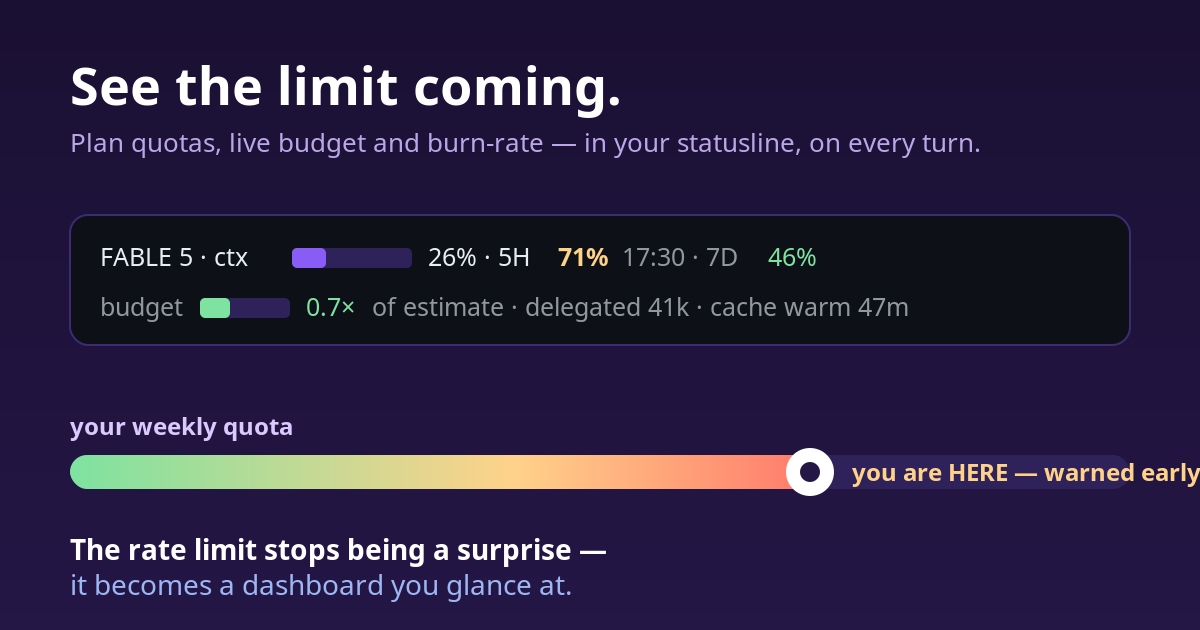
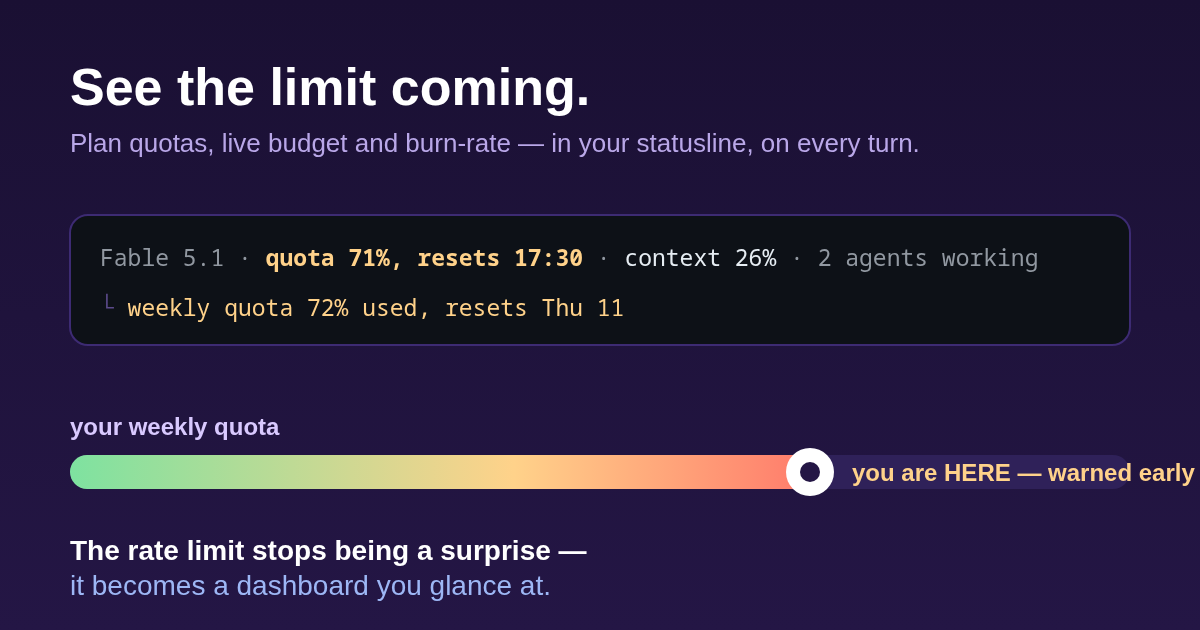
docs: statusline previews show the plain line (default since 1.39)
README, docs/STATUSLINE.md, INSTALL §6 and the plugin README still showed the
dense expert line as the default. Previews now show the plain line and one
exception row; the dense line is labelled expert mode. statusline.svg and the
card4 mock redrawn, PNG regenerated from the SVG.

Claude-Session: https://claude.ai/code/session_01Bj4SoJ2wubPXGZyGoXpb6U

diff --git a/fable-director/README.md b/fable-director/README.md
@@ -15,10 +15,10 @@ execute, the workshop accrues craft.
 | `skills/delega-efficiente/tools/session-cost-report.py` | Token report per model/main/subagents from JSONL transcripts; cache/delegation metrics (alarms, not targets); reads the budget file on its own and prints ≥3× flags |
 | `scripts/fd-telemetry.py` | Machine-readable pre-budget (`budget-open`/`budget-close`, `--type` for the density table), objective event logging to SQLite (`~/.claude/fable-director/telemetry.db`), aggregate `report` (encoded density N≥10, cache-thrash alarm), opt-in idempotent cache (`cache-get`/`cache-put --verified`). Never self-assigned quality scores |
 | `scripts/stop-budget-check.py` (Stop hook) | Deterministic 3× enforcement: at each turn end it compares actual tokens against the open budget (lineage attribution: subagent usage sits inside toolUseResult in the main transcript — no mtime, no double counting); on overrun it blocks closing, auto-logs the `budget_flag` event to telemetry (deterministic, zero tokens: the model only owes the post-mortem) and imposes the post-mortem. Anti-loop: stop_hook_active + flagged status; budget >24h → stale |
-| `scripts/subagent-meter.py` (SubagentStart/SubagentStop hooks) | Counts delegations that actually started — nested spawns included, which the PreToolUse gate never sees (Claude Code ≥ 2.1.219 nests 3 levels by default) — and compares each subagent's real `effort.level` against the tier pinned in its frontmatter, logging `effort_ignored` when the pin was ignored. State per session in `~/.claude/fable-director/subagents/`, read by the statusline (`dlg ⟲N`) and `/fable-director:status`. Lock + atomic rename (a workflow fan-out starts many at once); any internal error exits 0 in silence — a meter must never break the session it measures |
+| `scripts/subagent-meter.py` (SubagentStart/SubagentStop hooks) | Counts delegations that actually started — nested spawns included, which the PreToolUse gate never sees (Claude Code ≥ 2.1.219 nests 3 levels by default) — and compares each subagent's real `effort.level` against the tier pinned in its frontmatter, logging `effort_ignored` when the pin was ignored. State per session in `~/.claude/fable-director/subagents/`, read by the statusline (`N agents working`, `dlg ⟲N` in expert mode) and `/fable-director:status`. Lock + atomic rename (a workflow fan-out starts many at once); any internal error exits 0 in silence — a meter must never break the session it measures |
 | SessionEnd hook (`fd-telemetry.py session-summary`) | Logs at session end token totals, cache_hit_ratio/efficiency/investment, delegation_overhead, coordination_cost — zero model tokens |
 | `playbook-template.md` | Playbook template: copy it to `~/.claude/delega-playbook.md` on first install (outside the plugin: updates don't touch it) |
-| `scripts/statusline-ctx.sh` (optional) | Statusline: `[MODEL]` active, `[CTX %]` conversation context window, `[5H % HH:MM]` 5-hour plan quota with reset time (set apart in half-light, no arrow), `[7D % "6 Jul"]` weekly quota with reset date (month follows the `LANG` locale), `[BDG r×·effort]` pre-budget live ratio (consumed/expected output, same accounting as the Stop hook, incremental transcript scan) + declared effort tier, degrading to `ok/2×/3×` without transcript, color thresholds 2×/3×; quota color thresholds 60/80; caveman badge in the tail, dropped first on narrow terminals. Row 1 degrades by decoration only (badge → ctx gauge → reset times), never by data. Enable it with `/fable-director:statusline` (INSTALL §6) |
+| `scripts/statusline-ctx.sh` + `scripts/statusline-plain.py` (optional) | Statusline, plain by default since 1.39: `Fable 5.1 · quota 21%, resets 17:30 · context 26%` always — model, 5-hour plan quota with reset time, context — plus exceptions in words only when there is something to do (`budget over 2.3× — reconsider the route`, `verification failed: python3 tests/run.py (exit 1)`, `1 agent stuck for 32 min — check /tasks`, `weekly quota 72% used, resets Thu 11`), a second row when more than one, the least urgent dropped first on narrow terminals. Expert mode (`statusline-install.sh --expert` or `FD_STATUSLINE_MODE=expert`) restores the dense line: `[MODEL]` active, `[CTX %]` conversation context window, `[5H % HH:MM]` 5-hour plan quota with reset time (set apart in half-light, no arrow), `[7D % "6 Jul"]` weekly quota with reset date (month follows the `LANG` locale), `[BDG r×·effort]` pre-budget live ratio (consumed/expected output, same accounting as the Stop hook, incremental transcript scan) + declared effort tier, degrading to `ok/2×/3×` without transcript, color thresholds 2×/3×; quota color thresholds 60/80; caveman badge in the tail, dropped first on narrow terminals. Row 1 degrades by decoration only (badge → ctx gauge → reset times), never by data. Enable it with `/fable-director:statusline` (INSTALL §6) |
 | `commands/statusline.md` + `scripts/statusline-install.sh` | The `/fable-director:statusline` command that writes the statusLine to settings.json: idempotent, merge-safe installer that auto-resolves the real absolute path of the installation (GitHub or local directory), doesn't touch third-party statusLines, backs up. `--remove` to uninstall it |
 | `agents/fd-executor.md` + `agents/fd-verifier.md` | Shipped agents with pinned reasoning tiers (`effort: low` / `effort: high` in frontmatter — the Agent tool has no per-call effort parameter): axis-4 batch executor under a strict spec contract, and the rung-3 adversarial verifier (read-only, artifact+rubric only) |
 | `scripts/cross-verify.py` | Cross-family verifier (ladder rung 4): adversarial check by a different model family (Gemini/Codex CLI, plus optional paid Grok/xAI via `XAI_API_KEY`), out of Claude quota, no silent fallback — `unavailable` is never "verified". Config `~/.claude/fable-director/cross-family.json` (`--init`) |

diff --git a/INSTALL.md b/INSTALL.md
@@ -80,11 +80,13 @@ Only if the plugin system is unusable:
 
 ## 6. Statusline (optional)
 
-Always shows `[MODEL]`, `[CTX %]` (conversation context window), `[5H % HH:MM]` (5-hour plan
-quota with the reset time set apart in half-light — no arrow, the "Current session" in /usage),
-`[7D % reset]` (weekly quota) and `[BDG]` (fable-director pre-budget state). On a narrow
-terminal row 1 sheds decoration before data: the caveman badge first, then the ctx gauge,
-then the reset times — quotas and alarms survive at any width.
+Plain by default since 1.39: `Fable 5.1 · quota 21%, resets 17:30 · context 26%` — model,
+5-hour plan quota with its reset time (the "Current session" in /usage) and context, always;
+everything else (weekly quota from 60%, budget past 2×, failed verification, stuck agents…)
+appears in words only when there is something to do, the least urgent dropped first on a
+narrow terminal. `--expert` restores the dense line (`[CTX %]`, `[5H % HH:MM]`, `[7D % reset]`,
+`[BDG r×·effort]`), which sheds decoration before data: the caveman badge first, then the ctx
+gauge, then the reset times — quotas and alarms survive at any width.
 
 The statusLine is NOT a component the plugin can auto-register (unlike hooks/skills/commands):
 it must be written to `settings.json`. To make the step uniform and foolproof on every machine,
@@ -134,7 +136,7 @@ for 1:1 behavior.
 - **SubagentStart/SubagentStop hooks (`subagent-meter.py`)** → counts the delegations that really
   started (nested spawns included: Claude Code ≥ 2.1.219 nests three levels by default) and compares
   each subagent's actual `effort.level` with the tier pinned in its frontmatter. Zero model tokens,
-  never blocks; feeds `dlg ⟲N` on the statusline and `/fable-director:status`.
+  never blocks; feeds `N agents working` on the statusline (`dlg ⟲N` in expert mode) and `/fable-director:status`.
 - **SessionEnd hook (`fd-telemetry.py session-summary`)** → logs to SQLite
   (`~/.claude/fable-director/telemetry.db`) token totals and cache/delegation metrics, zero model tokens.
 - **`~/.claude/delega-playbook.md`** (external, survives updates) → learned heuristics:

diff --git a/README.md b/README.md
@@ -141,14 +141,23 @@ The full table, the hook-by-hook lifecycle and the known limits are in
 ## The statusline
 
 ```
-✦ FABLE 5·max · ctx ▓▓▓░░░░░ 26%/1M · cmp 1 · 5H 71% 17:30 · 7D 46% 14 Jul · fail ×3 │ caveman
-└ bdg ▓░░ 0.7×·high · dlg ≡ 41k · xf gemini 2/1500 09:00 · cache ◕ 47m
+Fable 5.1 · quota 21%, resets 17:30 · context 26%                  caveman
 ```
 
-Model, context, plan quotas and live budget at a glance — so you see the rate
-limit coming **before** it hits. One rule: half-light when healthy, full words
-when broken. `/fable-director:statusline` installs it; on a phone or web client
-`/fable-director:status` prints the same state as text.
+Model, five-hour plan quota with its reset time, context — the three numbers
+that are your margin, always on screen — so you see the rate limit coming
+**before** it hits. Everything else shows up only when there is something to
+do, in words, most urgent first:
+
+```
+Fable 5.1 · quota 92%, resets 17:30 · context 83%
+└ quota 92% used, resets in 40 min · context 83% full — finish the task and start a new session
+```
+
+`/fable-director:statusline` installs it; on a phone or web client
+`/fable-director:status` prints the same state as text. The dense historic
+line (`ctx ▓▓▓░░░░░ 26%/1M · 5H 71% 17:30 · bdg ▓░░ 0.7×·high · dlg ≡ 41k`)
+is the optional **expert mode**.
 
 ![See the limit coming: plan quotas, live budget and burn-rate in your statusline on every turn. The rate limit stops being a surprise — it becomes a dashboard you glance at.](assets/readme/card4-gauge.png)
 

diff --git a/docs/STATUSLINE.md b/docs/STATUSLINE.md
@@ -39,7 +39,10 @@ At 3× — or with enforcement broken — the alarm **takes over** the head of t
 line, everything else dropping to half-light: plain red text in the default
 line, a solid-red block in expert mode.
 
-## The segments
+## Expert-mode segments
+
+The plain line has no segments to learn: its exception texts are the legend
+(`/fable-director:help`). The dense line of `--expert` is made of these:
 
 | Segment | What it tells you |
 |---|---|
@@ -66,9 +69,10 @@ installer also writes `refreshInterval: 5` (seconds) so the line keeps breathing
 during the wait; `FD_STATUSLINE_REFRESH=<n>` changes it, `0` turns it off.
 
 On narrow screens (real terminal width via `COLUMNS`) both rows trim by the same
-rule — **decoration goes, data stays**. Row 1 drops the `caveman` badge, then
-the `ctx` gauge, then the reset times; the model, every percentage and every
-alarm survive at any width. Row 2 drops `cache`, then `dlg`, then `xf`, and
+rule — **decoration goes, data stays**. In the plain line the `caveman` badge
+goes first, then the least urgent exception on row 2; model, quota and context
+survive at any width. In expert mode row 1 drops the badge, then the `ctx`
+gauge, then the reset times; row 2 drops `cache`, then `dlg`, then `xf`, and
 never the budget.
 
 Segments can become clickable (opt-in, off by default — some webview terminals
